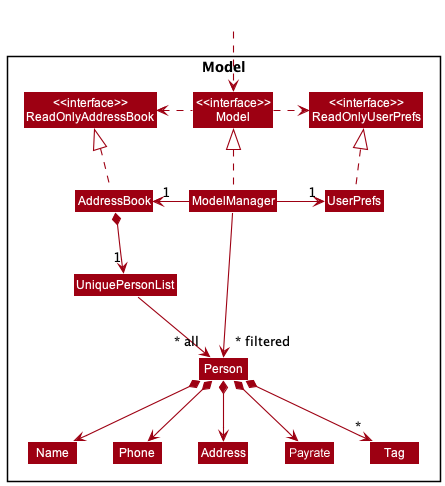
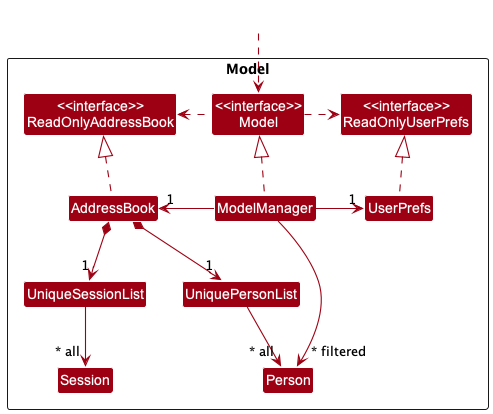
Add DG

diff --git a/src/main/java/seedu/address/model/ModelManager.java b/src/main/java/seedu/address/model/ModelManager.java
@@ -124,16 +124,54 @@ public class ModelManager implements Model {
     @Override
     public void setPerson(Person target, Person editedPerson) {
         requireAllNonNull(target, editedPerson);
-
         addressBook.setPerson(target, editedPerson);
     }
 
     @Override
     public void setSession(Session target, Session editedSession) {
         requireAllNonNull(target, editedSession);
-
         addressBook.setSession(target, editedSession);
     }
+
+    @Override
+    public boolean hasSession(Session toAdd) {
+        return addressBook.hasSession(toAdd);
+    }
+
+    @Override
+    public void addSession(Session toAdd) {
+        addressBook.addSession(toAdd);
+        updateFilteredSessionList(PREDICATE_SHOW_ALL_SESSIONS);
+    }
+
+    @Override
+    public void removeSession(Session toRemove) {
+        addressBook.removeSession(toRemove);
+        updateFilteredSessionList(PREDICATE_SHOW_ALL_SESSIONS);
+    }
+
+    @Override
+    public void addPersonToSession(Person person, Session session) {
+        addressBook.addPersonToSession(person, session);
+        updateFilteredSessionList(PREDICATE_SHOW_ALL_SESSIONS);
+    }
+
+    @Override
+    public void removePersonFromSession(Person person, Session session) {
+        addressBook.removePersonFromSession(person, session);
+        updateFilteredSessionList(PREDICATE_SHOW_ALL_SESSIONS);
+    }
+
+    @Override
+    public Session getSessionFromName(SessionName name) {
+        return addressBook.getSessionFromName(name);
+    }
+
+    @Override
+    public boolean hasSessionName(SessionName sessionName) {
+        return addressBook.hasSessionName(sessionName);
+    }
+
 
     @Override
     public void commitAddressBook() {
@@ -176,45 +214,6 @@ public class ModelManager implements Model {
     public void updateFilteredSessionList(Predicate<Session> predicate) {
         requireNonNull(predicate);
         filteredSessions.setPredicate(predicate);
-    }
-
-    @Override
-    public boolean hasSession(Session toAdd) {
-        return addressBook.hasSession(toAdd);
-    }
-
-    @Override
-    public void addSession(Session toAdd) {
-        addressBook.addSession(toAdd);
-        updateFilteredSessionList(PREDICATE_SHOW_ALL_SESSIONS);
-    }
-
-    @Override
-    public void removeSession(Session toRemove) {
-        addressBook.removeSession(toRemove);
-        updateFilteredSessionList(PREDICATE_SHOW_ALL_SESSIONS);
-    }
-
-    @Override
-    public void addPersonToSession(Person person, Session session) {
-        addressBook.addPersonToSession(person, session);
-        updateFilteredSessionList(PREDICATE_SHOW_ALL_SESSIONS);
-    }
-
-    @Override
-    public void removePersonFromSession(Person person, Session session) {
-        addressBook.removePersonFromSession(person, session);
-        updateFilteredSessionList(PREDICATE_SHOW_ALL_SESSIONS);
-    }
-
-    @Override
-    public Session getSessionFromName(SessionName name) {
-        return addressBook.getSessionFromName(name);
-    }
-
-    @Override
-    public boolean hasSessionName(SessionName sessionName) {
-        return addressBook.hasSessionName(sessionName);
     }
 
     @Override

diff --git a/src/main/java/seedu/address/model/session/Session.java b/src/main/java/seedu/address/model/session/Session.java
@@ -31,7 +31,6 @@ public class Session implements Comparable<Session> {
     public static final String MESSAGE_INVALID_DATES = "Invalid Date Input Format (DD-MM-YYYY HH:mm). "
             + "Please input valid digits.";
     public static final DateTimeFormatter DATE_TIME_FORMATTER = DateTimeFormatter.ofPattern("dd-MM-yyyy HH:mm");
-    private String command;
     private final Logger logger = LogsCenter.getLogger(getClass());
     private final String startDateTime;
     private final String endDateTime;

diff --git a/docs/DeveloperGuide.md b/docs/DeveloperGuide.md
@@ -122,16 +122,16 @@ How the parsing works:
 
 The `Model` component,
 
-* stores the AddressBook data i.e., all `Person` objects (which are contained in a `UniquePersonList` object).
+* stores the AddressBook data i.e., all `Person` and `Session` objects (which are contained in a `UniquePersonList` and `UniqueSessionList` object respectively).
 * stores the currently 'selected' `Person` objects (e.g., results of a search query) as a separate _filtered_ list which is exposed to outsiders as an unmodifiable `ObservableList<Person>` that can be 'observed' e.g. the UI can be bound to this list so that the UI automatically updates when the data in the list change.
 * stores a `UserPref` object that represents the Coach’s preferences. This is exposed to the outside as a `ReadOnlyUserPref` objects.
 * does not depend on any of the other three components (as the `Model` represents data entities of the domain, they should make sense on their own without depending on other components)
 
-<div markdown="span" class="alert alert-info">:information_source: **Note:** An alternative (arguably, a more OOP) model is given below. It has a `Tag` list in the `AddressBook`, which `Person` references. This allows `AddressBook` to only require one `Tag` object per unique tag, instead of each `Person` needing their own `Tag` objects.<br>
 
 <img src="images/BetterModelClassDiagram.png" width="450" />
 
-</div>
+The `Addressbook` component, contained under `Model` is responsible for supporting the main functionalities of our app. Mainly the `Person` class facilitates that contact list functionality, while the `Session` class
+facilitates the scheduling, calendar and data Analytics functionality. 
 
 
 ### Storage component
@@ -141,7 +141,7 @@ The `Model` component,
 <img src="images/StorageClassDiagram.png" width="550" />
 
 The `Storage` component,
-* can save both AddressBook data and Coach preference data in json format, and read them back into corresponding objects.
+* can save both AddressBook data and user preference data in json format, and read them back into corresponding objects.
 * inherits from both `AddressBookStorage` and `UserPrefStorage`, which means it can be treated as either one (if only the functionality of only one is needed).
 * depends on some classes in the `Model` component (because the `Storage` component's job is to save/retrieve objects that belong to the `Model`)
 
@@ -254,6 +254,94 @@ The following activity diagram summarizes what happens when a Coach executes a n
   itself.
   * Pros: Will use less memory (e.g. for `delete`, just save the `Person` being deleted).
   * Cons: We must ensure that the implementation of each individual command are correct.
+
+### Session feature
+
+#### Implementation
+
+The proposed session feature is facilitated by a `Session`, contained in a `UniqueSessionList`, which is subsequently contained an `addressbook`.
+
+It supports the following sub-features:
+* Adding/Removing students from a session
+* Taking the attendance of a student in a session
+* Data Analytics
+
+To better understand how each sub-feature is implemented, we need to have a better picture of the attributes of `Session` object.
+
+<img src="images/SessionClassDiagram.png" width="" />
+
+As seen above, a Session needs a:
+* SessionName: to uniquely identify a session
+* Location: extra information for the Coach
+* AttendanceMap: to store references of participating athletes
+* PayRateMap: to support the Data-Analytics functionality
+
+The `Session` object implements the following operations to enable the respective sub-features:
+
+##### Adding/Removing athletes from a session
+* `Session#addPersonToSession()` — Adds a person reference to a `Session` object's attendanceMap.
+* `Session#removePersonFromSession()` — Removes a person reference from a `Session` object's attendanceMap.
+
+##### Taking the attendance of an athlete in a session
+* `Session#markStudentPresent()` —  set person reference in a `Session` object's attendanceMap as present.
+* `Session#markStudentAbsent()` —  set person reference in a `Session` object's attendanceMap as absent.
+
+
+These operations are exposed in the `Model` interface as `Model#addPersonToSession()`, `Model#removePersonFromSession()` and `Model#setSession()`.
+
+Given below is an example usage scenario and for each sub-feature:
+
+### Adding/Removing athletes from a session
+
+To enable this feature, we need to have a data structure that can store references to athletes in a session. A naive way to do this would be to have a `UniquePersonList` in a `Session` object. However, since we also need to track the attendance of every student, we propose using a `HashMap` class to store key-value pairs where the key is a `String` (the athlete's name), and the value is a `Boolean` (to indicate attendance).
+
+<img src="images/StudentAddRemoveSequenceDiagram.png" width="" />
+
+Step 1. The coach decides to create a new session object named "Hall". A session is initialized, creating an empty `AttendanceMap`.
+
+Step 2. The coach decides to add athlete Bob (a `Person` object) to the Hall session.
+- We first find the `Name` of Bob and convert it to its `String` equivalent.
+- We then insert a key-value pair of `String`: "Bob" and `Boolean`: `false` into our `AttendanceMap`.
+- We now have a reference to athlete Bob in our `AttendanceMap` in the `Session`.
+- Note that attendance is set to `false` by default since the session hasn't started yet.
+
+Step 3. Bob decides to quit the session, and the coach decides to remove Bob from the Hall `Session`.
+- We first find the `Name` of Bob and convert it to its `String` equivalent.
+- We then check our `AttendanceMap` to make sure Bob is an existing student, i.e., an existing key in the `HashMap`.
+- We then remove the key of `String`: "Bob" from our `AttendanceMap`.
+- We no longer have a reference to Bob in our Hall `Session` object.
+
+### Taking Attendance of an Athlete in a Session
+
+Similar to adding/removing athletes, marking/unmarking the attendance of an athlete relies on the `AttendanceMap` object.
+
+<img src="images/MarkUnmarkSequenceDiagram.png" width="" />
+
+Marking and unmarking an athlete undergo the same steps, with the only difference being that marking sets the value of the key as `true`, while unmarking sets it to `false`. Here's an example scenario where the coach decides to mark Bob as present in the Hall `Session` object:
+
+Step 1. We check if Bob is a key in the `AttendanceMap` of Hall.
+
+Step 2. We then set the key using the `HashMap#put()` method to set the value of the key Bob as `true`.
+
+
+### Generating Data Analytics for a Coach
+
+Our data analytics feature currently supports the following statistics for our coach:
+1. Daily earnings
+2. Weekly earnings
+3. Monthly earnings
+4. All-time earnings
+
+These statistics are implemented with the help of the `PayRateMap` in the `Session` class, which maps all participating athletes with their `PayRate`. Note that `PayRate` is a float indicating the hourly rate an athlete would pay the Coach.
+
+Since we are not storing full `Person` objects in a `Session`, we cannot find an athlete's `Payrate` by simply calling a method in the `Session` itself. The only thing stored in `AttendanceMap` is the athlete's name. Therefore, we need to access the `UniquePersonList` in the `AddressBook` class to find the `Payrate`.
+
+The `Session` class uses the `getTotalPay()` method to find the total `Payrate` of all athletes in the `Session`. This method follows a set formula.
+
+To find the daily, weekly, and monthly earnings, we iterate through our `UniqueSessionList` and find all sessions that fall between a specified period.
+
+
+
 
 --------------------------------------------------------------------------------------------------------------------
 

diff --git a/docs/team/oliverloo0909.md b/docs/team/oliverloo0909.md
@@ -3,18 +3,11 @@ layout: page
 title: Oliver Loo's Project Portfolio Page
 ---
 
-### Project: Unibook
+## **Project: SportSync**
 
-Unibook is a desktop address book application used for coaching student athletes. The user interacts with it using a CLI, and it has a GUI created with JavaFX. It is written in Java.
+SportSync is a desktop address book application used for coaching student athletes. The user interacts with it using a CLI, and it has a GUI created with JavaFX. It is written in Java.
 
 Given below are my contributions to the project.
-
-
-* **New Feature**:
-    * What it does: ability to group student's however the coach likes
-    * Justification: for better contact management handling
-    * Highlights:
-    * Credits: Oliver Loo
 
 * **New Feature**:
 * ### Session function [\#29](https://github.com/AY2223S2-CS2103T-W13-2/tp/pull/76)
@@ -46,6 +39,10 @@ Added the ability to undo and redo previously entered commands.
 * **Code contributed**: [RepoSense link](https://nus-cs2103-ay2223s2.github.io/tp-dashboard/?search=Olive&sort=groupTitle&sortWithin=title&timeframe=commit&mergegroup=&groupSelect=groupByRepos&breakdown=true&checkedFileTypes=docs~functional-code~test-code~other&since=2023-02-17&tabOpen=true&tabType=authorship&tabAuthor=Oliverloo0909&tabRepo=AY2223S2-CS2103T-W13-2%2Ftp%5Bmaster%5D&authorshipIsMergeGroup=false&authorshipFileTypes=docs~functional-code~test-code&authorshipIsBinaryFileTypeChecked=false&authorshipIsIgnoredFilesChecked=false)
 
 * **Project management**:
+* Helped with debugging and testing the app to ensure correct functionality.
+* Participated in key team discussions to decide on direction of project.
+* Regularly reviewed and merged pull requests from other team members.
+
 
 * **Enhancements to existing features**:
 
